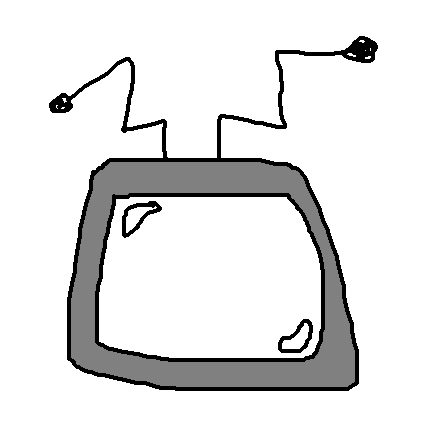
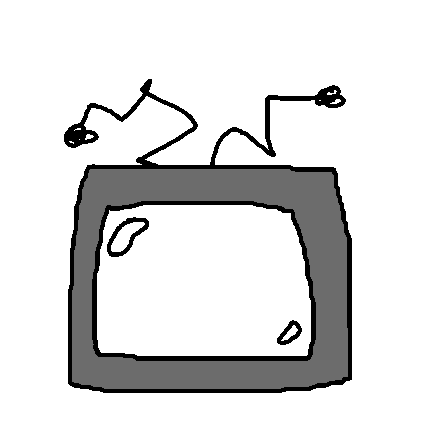
the wacky tv

Changed region(s): [[0.0913, 0.0609, 0.8829, 0.9438], [0.1827, 0.1522, 0.274, 0.2131]]

diff --git a/la_sala_del_fondo/patch_notes.html b/la_sala_del_fondo/patch_notes.html
@@ -13,12 +13,18 @@
 
 <html id="inside_patch_paper">
 
+
+<!-- / / / / / / / / / / / / / / / / / / / / / / / / / / / / / -->
+<h4>April 28 2025</h4>
+<p>Version 0.7.0</p>
+<p>- Added The Wacky TV + The Wacky TV Remote combo.</p>
+<br>
 <!-- / / / / / / / / / / / / / / / / / / / / / / / / / / / / / -->
 <h4>April 27 2025</h4>
 <p>Version 0.6.1</p>
 <p>- Fixed Cookie Clicker's cookies counter showing up as NaN in some browsers.</p>
-<p>- Fixed the Cookie Clicker count system so it doesnt delete your cookies when you press the Cookie Cliker when the page is still loading</p>
-<p>- Fixed patch notes notification icon not showing up correctly</p>
+<p>- Fixed the Cookie Clicker count system so it doesnt delete your cookies when you press the Cookie Cliker when the page is still loading.</p>
+<p>- Fixed patch notes notification icon not showing up correctly.</p>
 <br>
 <!-- / / / / / / / / / / / / / / / / / / / / / / / / / / / / / -->
 <h4>April 27 2025</h4>

diff --git a/la_sala_del_fondo/index.html b/la_sala_del_fondo/index.html
@@ -80,7 +80,9 @@
 
     <!--The Wacky TV-->
     <div>
-        <img class="items" id="youtube_tv" onclick="generateRandomYouTubeLink()" src="items/tv.png" alt="tv">
+        <img class="items" id="youtube_tv" src="items/tv.png" alt="tv">
+        <img class="items" id="tv_static" src="items/tv_static.png" alt="static">
+        <img class="items" id="tv_controller" onclick="generateRandomYouTubeLink()" src="items/tv_controller.png" alt="controller">
         <iframe class="items" id="youtube_video" width="1280" height="720" src="https://www.youtube.com/embed/_g0ZqytcvND" title="The Wacky TV" frameborder="0" referrerpolicy="strict-origin-when-cross-origin"></iframe>
     </div>
 

diff --git a/la_sala_del_fondo/style.css b/la_sala_del_fondo/style.css
@@ -84,18 +84,28 @@ audio {
     text-shadow: 1px 1px 5px black;
 }
 
-#youtube_tv {
+#youtube_tv, #tv_static{
     height: 15vw;
     width: 15vw;
-    top: 71vh;
-    left: 45vw;
+    top: 70vh;
+    left: 43vw;
+    pointer-events: none;
+}
+#tv_static {
+    z-index: 8;
 }
 
+#tv_controller {
+    height: 3vh;
+    width: 5vw;
+    top: 80.7vh;
+    left: 49vw;
+}
 #youtube_video {
     height: 77px;
     width: 107px;
-    top: 75vh;
-    left: 44.8vw;
+    top: 74.1vh;
+    left: 42.7vw;
     z-index: 9;
 }
 
